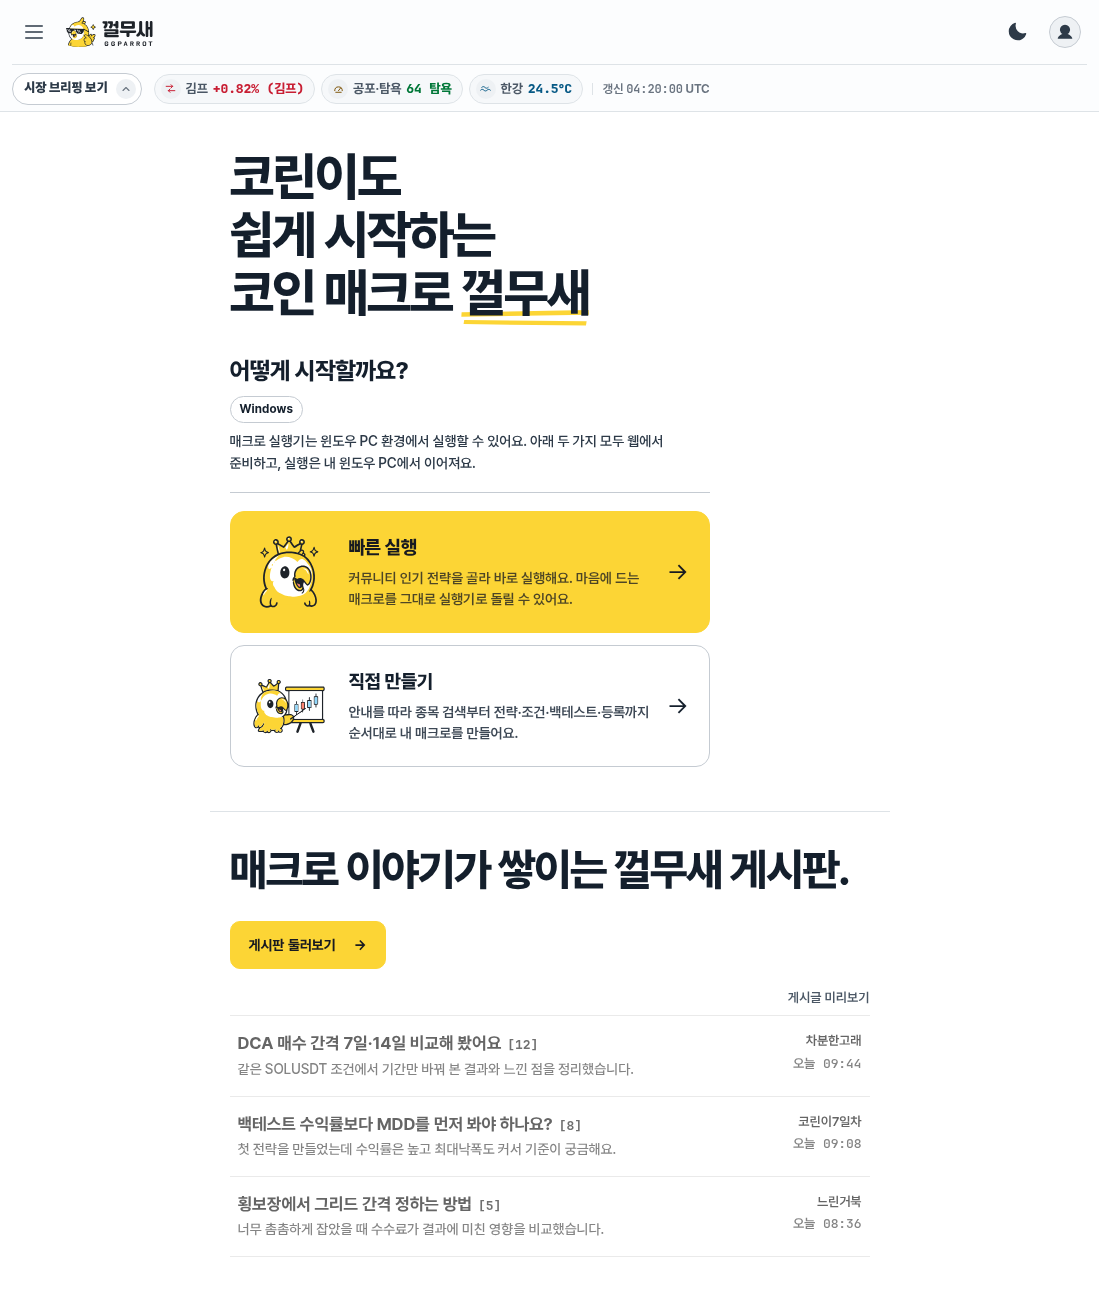
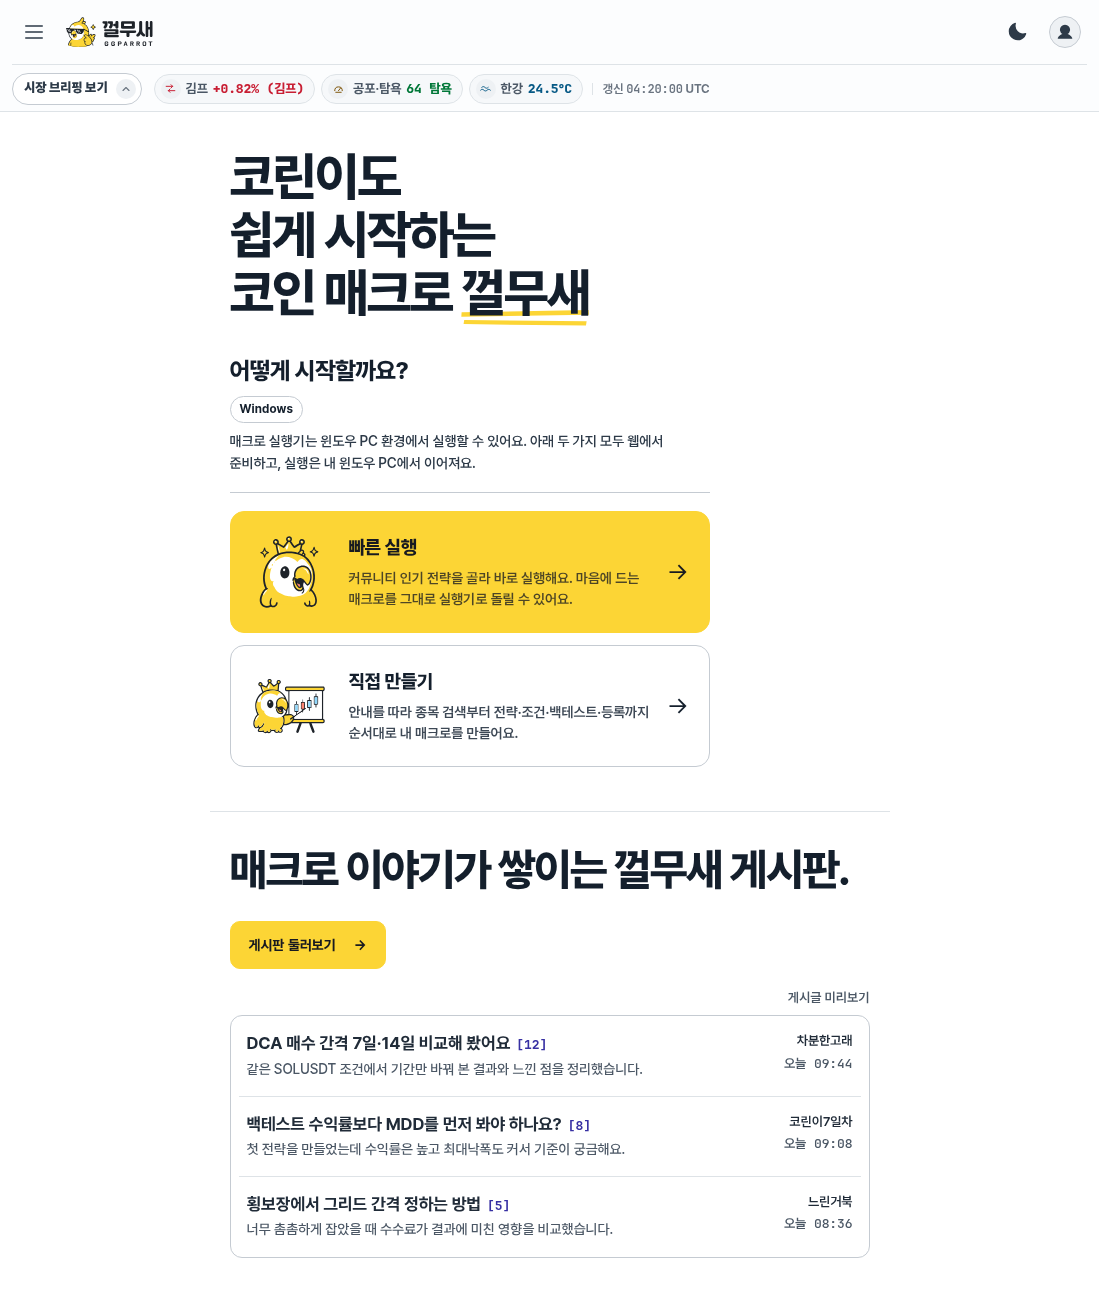
fix: outline hero post preview and remove mock pagination

diff --git a/frontend/src/pages/HomeCommunity.css b/frontend/src/pages/HomeCommunity.css
@@ -1,8 +1,10 @@
-/* 히어로의 게시판 모형은 유지하고, 예시 글만 읽기 전용 미리보기로 구분한다. */
+/* 게시글 미리보기는 외곽선으로 묶고 원래 글자색을 사용한다. */
 .home-community-preview-caption { margin: 0 0 8px; text-align: right; }
 .home-community-preview .home-community-post-viewport {
-  opacity: .72;
-  filter: grayscale(1);
+  border: 1px solid rgb(var(--c-slate-300));
+  border-radius: 12px;
+  padding-inline: 8px;
   cursor: default;
 }
 .home-community-preview .home-community-post-list li { cursor: default; }
+.home-mobile-stack .home-community-post-list li:last-child { border-bottom: 0; }

diff --git a/frontend/src/pages/Home.jsx b/frontend/src/pages/Home.jsx
@@ -194,9 +194,6 @@ function CommunityEntryHero({ staticLayout = false }) {
             {staticLayout ? null : <CommunityPostList duplicate />}
           </div>
         </div>
-        {!staticLayout ? <footer className="home-board-preview-footer" aria-hidden="true">
-          <span>‹</span><strong>1</strong><span>2</span><span>3</span><span>›</span>
-        </footer> : null}
       </aside>
     </section>
   );

diff --git a/frontend/src/pages/HomeMobile.css b/frontend/src/pages/HomeMobile.css
@@ -64,7 +64,7 @@
 
   .home-mobile-stack .home-community-post-viewport {
     height: auto;
-    overflow: visible;
+    overflow: hidden;
   }
 
   .home-mobile-stack .home-community-post-track {

diff --git a/frontend/tests/homeMobileBrowser.smoke.py b/frontend/tests/homeMobileBrowser.smoke.py
@@ -83,11 +83,20 @@ def assert_static_home(page):
     expect(page.locator(".home-community-post-list a,.home-community-post-list button")).to_have_count(0)
     expect(page.locator(".home-board-preview-head")).to_have_count(0)
     expect(page.locator(".home-board-preview-footer")).to_have_count(0)
+    assert_preview_outline(page)
     expect(page.locator(".home-mobile-stack h1")).to_have_count(1)
     expect(page.locator(".home-mobile-stack #home-community-title")).to_have_count(1)
     assert page.locator(".home-community-post-track").evaluate(
         "el => getComputedStyle(el).animationName === 'none' && getComputedStyle(el).transform === 'none'"
     )
+
+
+def assert_preview_outline(page):
+    style = page.locator('.home-community-post-viewport').evaluate("""n=>{
+      const s=getComputedStyle(n);
+      return {borders:[s.borderTopWidth,s.borderRightWidth,s.borderBottomWidth,s.borderLeftWidth],opacity:s.opacity,filter:s.filter};
+    }""")
+    assert style == {'borders':['1px']*4,'opacity':'1','filter':'none'},style
 
 
 def measure(page):
@@ -183,7 +192,8 @@ def main():
             expect(page.locator(".home-community-post-list a,.home-community-post-list button")).to_have_count(0)
             preview = page.locator(".home-community-post-viewport")
             assert preview.evaluate("n=>getComputedStyle(n).cursor") == 'default'
-            assert preview.evaluate("n=>Number(getComputedStyle(n).opacity)") == .72
+            assert_preview_outline(page)
+            expect(page.locator(".home-board-preview-footer")).to_have_count(0)
             assert page.locator(".home-community-post-track").evaluate(
                 "el => getComputedStyle(el).animationName"
             ) == "home-community-post-belt"

diff --git a/docs/ui-checks/home-community/README.md b/docs/ui-checks/home-community/README.md
@@ -1,6 +1,6 @@
 # 메인 게시판 홍보 히어로
 
-홍보 문구·캐릭터·게시판 모형을 사용한 히어로입니다. 게시글 목록 위에 `게시글 미리보기`를 표시하고, 목록만 옅은 무채색으로 처리해 클릭 대상과 구분합니다. 실제 게시판은 `게시판 둘러보기` 버튼으로 이동합니다.
+홍보 문구·캐릭터·게시판 모형을 사용한 히어로입니다. 게시글 목록을 외곽선으로 감싸고 `게시글 미리보기`를 표시합니다. 글자색은 원래 색을 사용하며, 하단의 페이지 번호는 제거했습니다. 실제 게시판은 `게시판 둘러보기` 버튼으로 이동합니다.
 
 데스크톱 목록은 움직이며 마우스를 올리면 멈춥니다. 모바일에는 세 개의 예시 글이 정지된 상태로 표시됩니다. 미리보기 글에는 링크나 버튼이 없으며 기본 커서를 사용합니다.
 
